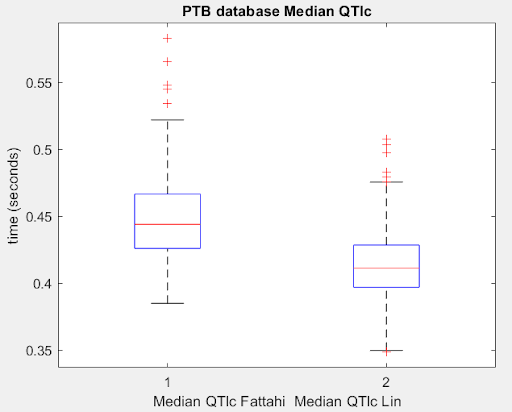
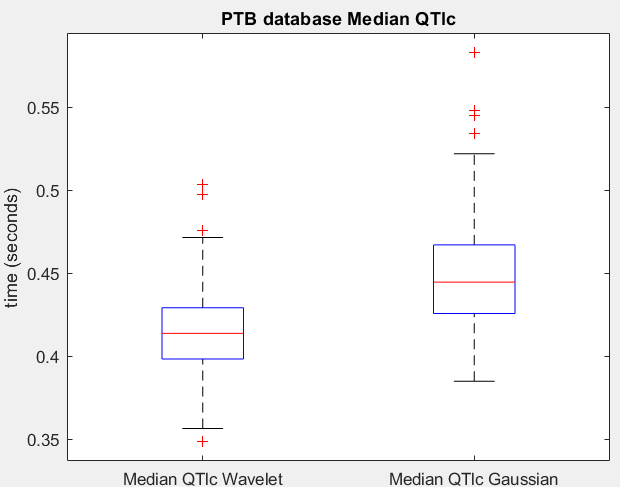
box plot updated to align with IQR table, added relative statistics table.

diff --git a/whole_dataset_stats.m b/whole_dataset_stats.m
@@ -47,7 +47,7 @@ QT.MedianQTlc_IQR_Fattahi=[]; QT.MedianQTlc_IQR_Li=[];
 % rows = numPatients;
 % QT = cell(rows);
 
-for fn=1:50
+for fn=1:80
 
     recordNames = ls(fullfile(dbPath, folderNames(fn,:),'s0*.csv'));
     [numRecords, ~] = size(recordNames);
@@ -103,20 +103,30 @@ QTlc_Wavelet = [median_Li trimMean_Li median_Li mode_Li range_Li std_Li]';
 % Calculate Box plot stats
 
 % iqr
+iqr_Gassian = iqr(QT.MedianQTlc_IQR_Fattahi);
+iqr_Wavelet = iqr(QT.MedianQTlc_IQR_Li);
 
-% mean
+%iqr lower
+iqr_Gassian_lower = prctile(QT.MedianQTlc_IQR_Fattahi, 25)-1.5*iqr_Gassian;
+iqr_Wavelet_lower = prctile(QT.MedianQTlc_IQR_Li, 25)-1.5*iqr_Wavelet;
 
-% iqr lower
+% iqr upper
+iqr_Gassian_upper = prctile(QT.MedianQTlc_IQR_Fattahi, 75)+1.5*iqr_Gassian;
+iqr_Wavelet_upper = prctile(QT.MedianQTlc_IQR_Li, 75)+1.5*iqr_Wavelet;
 
-%iqr upper
-
-% box plot stats table
-
+% box plot stats table: relative statistics
+QT_relative_statistics = {'max','3rd IQR', 'Median','1st IQR', 'min'};
+QTlc_Gaussian_iqr = [max(QT.MedianQTlc_IQR_Fattahi) iqr_Gassian_upper...
+    median_Fattahi iqr_Gassian_lower min(QT.MedianQTlc_IQR_Fattahi)]';
+QTlc_Wavelet_iqr = [max(QT.MedianQTlc_IQR_Li) iqr_Wavelet_upper...
+    median_Li iqr_Wavelet_lower min(QT.MedianQTlc_IQR_Li)]';
+boxPlot_stats = table(QTlc_Wavelet_iqr, QTlc_Gaussian_iqr, 'RowNames',...
+    QT_relative_statistics)
 
 %% Box plot
 
-boxplot([QT.MedianQTlc_IQR_Fattahi, QT.MedianQTlc_IQR_Li],...
-    'Labels',{'Median QTlc Fattahi ', ' Median QTlc Li'});
+boxplot([QT.MedianQTlc_IQR_Li, QT.MedianQTlc_IQR_Fattahi],...
+    'Labels',{'Median QTlc Wavelet', 'Median QTlc Gaussian'});
 ylabel('time (seconds)');
 title('PTB database Median QTlc')
 % outPath = 'stats.csv';
